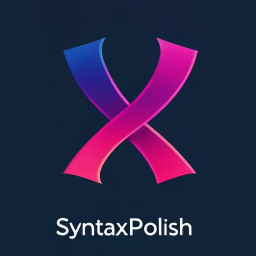
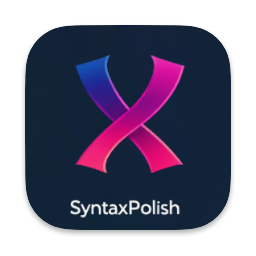
UPDATE: Update README.md

diff --git a/README.md b/README.md
@@ -2,6 +2,10 @@
 [![Dernière release](https://img.shields.io/github/v/release/mickaellherminez/syntax-polish)](https://github.com/mickaellherminez/syntax-polish/releases/latest)
 [![Téléchargements](https://img.shields.io/github/downloads/mickaellherminez/syntax-polish/total)](https://github.com/mickaellherminez/syntax-polish/releases)
 
+<p align="center">
+  <img src="workflow/icon-better.png" alt="Syntax Polish logo" width="160">
+</p>
+
 # ✨ Syntax Polish — Alfred Workflow (Multi-AI)
 
 Syntax Polish est un **workflow Alfred pour macOS** qui permet de corriger, reformuler
